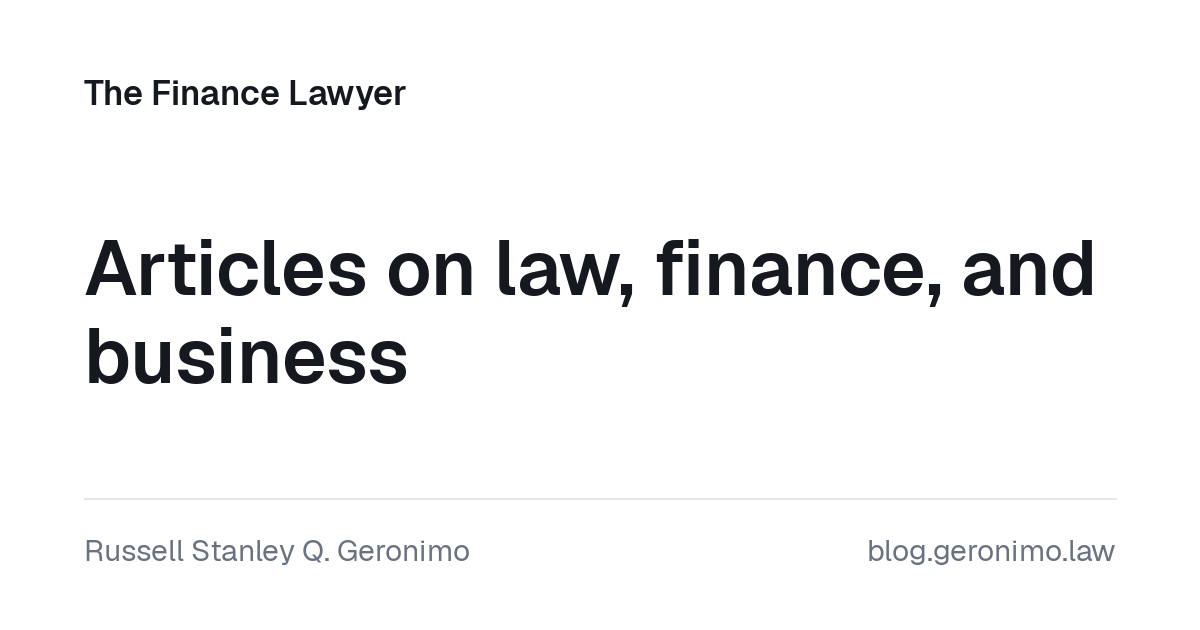
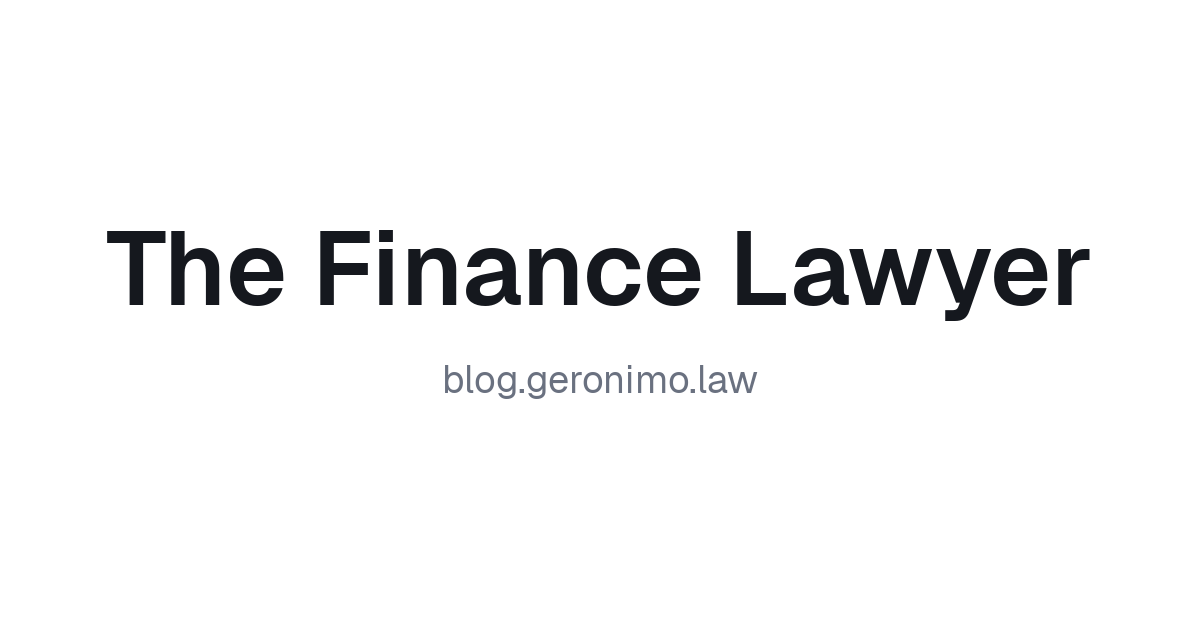
Use one simple preview image for all pages
Claude-Session: https://claude.ai/code/session_01ShWTwspNe6xruKVcppaJfL

diff --git a/articles/how-basel-iii-throttles-financing-of-smes-and-startups.html b/articles/how-basel-iii-throttles-financing-of-smes-and-startups.html
@@ -11,13 +11,13 @@
 <meta property="og:description" content="Why the Basel III capital rules make bank loans to SMEs and startups more expensive than loans to governments and conglomerates.">
 <meta property="og:type" content="article">
 <meta property="og:url" content="https://blog.geronimo.law/articles/how-basel-iii-throttles-financing-of-smes-and-startups.html">
-<meta property="og:image" content="https://blog.geronimo.law/images/cards/how-basel-iii-throttles-financing-of-smes-and-startups.png">
+<meta property="og:image" content="https://blog.geronimo.law/images/cards/site.png">
 <meta property="og:image:width" content="1200">
 <meta property="og:image:height" content="630">
 <meta name="twitter:card" content="summary_large_image">
 <meta name="twitter:title" content="How Basel III Throttles Financing of SMEs and Startups - Finance Lawyer - Russell Stanley Geronimo">
 <meta name="twitter:description" content="Why the Basel III capital rules make bank loans to SMEs and startups more expensive than loans to governments and conglomerates.">
-<meta name="twitter:image" content="https://blog.geronimo.law/images/cards/how-basel-iii-throttles-financing-of-smes-and-startups.png">
+<meta name="twitter:image" content="https://blog.geronimo.law/images/cards/site.png">
 <link rel="preconnect" href="https://fonts.googleapis.com">
 <link rel="preconnect" href="https://fonts.gstatic.com" crossorigin>
 <link href="https://fonts.googleapis.com/css2?family=Geist:wght@400;500;600&display=swap" rel="stylesheet">

diff --git a/articles/the-case-for-legalizing-insider-trading.html b/articles/the-case-for-legalizing-insider-trading.html
@@ -11,13 +11,13 @@
 <meta property="og:description" content="Why insider trading, a victimless crime, should be legalized.">
 <meta property="og:type" content="article">
 <meta property="og:url" content="https://blog.geronimo.law/articles/the-case-for-legalizing-insider-trading.html">
-<meta property="og:image" content="https://blog.geronimo.law/images/cards/the-case-for-legalizing-insider-trading.png">
+<meta property="og:image" content="https://blog.geronimo.law/images/cards/site.png">
 <meta property="og:image:width" content="1200">
 <meta property="og:image:height" content="630">
 <meta name="twitter:card" content="summary_large_image">
 <meta name="twitter:title" content="The Case for Legalizing Insider Trading - Finance Lawyer - Russell Stanley Geronimo">
 <meta name="twitter:description" content="Why insider trading, a victimless crime, should be legalized.">
-<meta name="twitter:image" content="https://blog.geronimo.law/images/cards/the-case-for-legalizing-insider-trading.png">
+<meta name="twitter:image" content="https://blog.geronimo.law/images/cards/site.png">
 <link rel="preconnect" href="https://fonts.googleapis.com">
 <link rel="preconnect" href="https://fonts.gstatic.com" crossorigin>
 <link href="https://fonts.googleapis.com/css2?family=Geist:wght@400;500;600&display=swap" rel="stylesheet">
